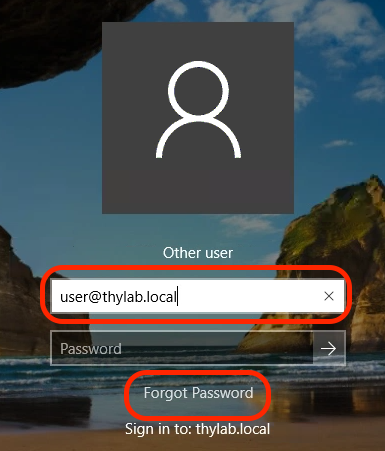
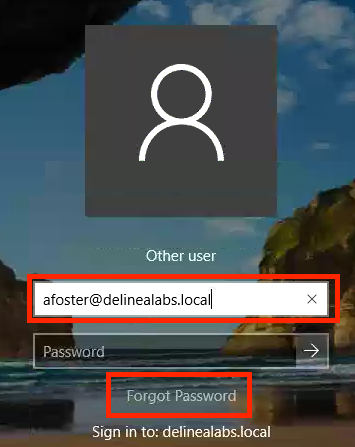
mod6 ServerPAM

diff --git a/docs/srvpam/mod6/mod6.md b/docs/srvpam/mod6/mod6.md
@@ -5,7 +5,7 @@ One of the most occurring issues helpdesks and IT departments face is users that
 ## Change the standard user password
 
 Open the console of the RDS01 server and log out all users that are logged in, if any.
-In the username type **user@delinealabs.local** and click the **Forgot Password** text to start the reset password process
+In the username type **afoster@delinealabs.local** and click the **Forgot Password** text to start the reset password process
 
 ![](../../images/lab0044.png)
 
@@ -21,7 +21,7 @@ After a successful finished process a message is shown that the password has bee
 
 ![](../../images/lab0047.png)
 
-Now try to login to the RDS01 with **user@delinealabs.local** and your new password. You should be able to login using that new password without any issue.
+Now try to login to the RDS01 with **afoster@delinealabs.local** and your new password. You should be able to login using that new password without any issue.
 
 Log out of the RDS01
 
